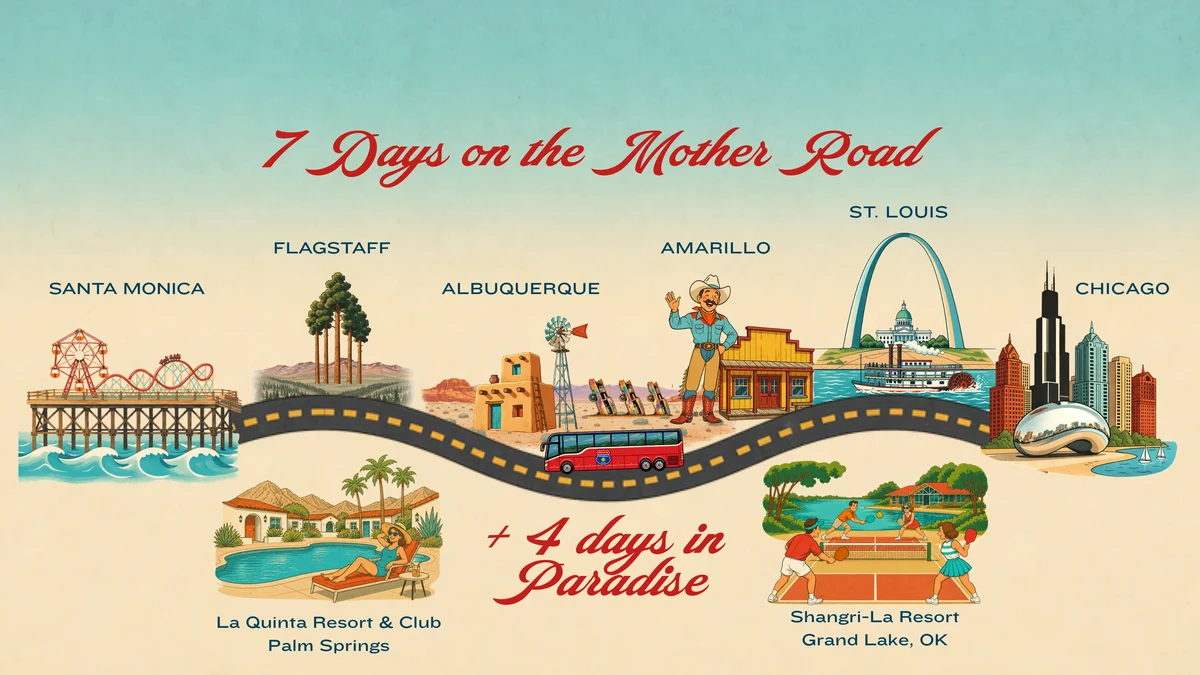
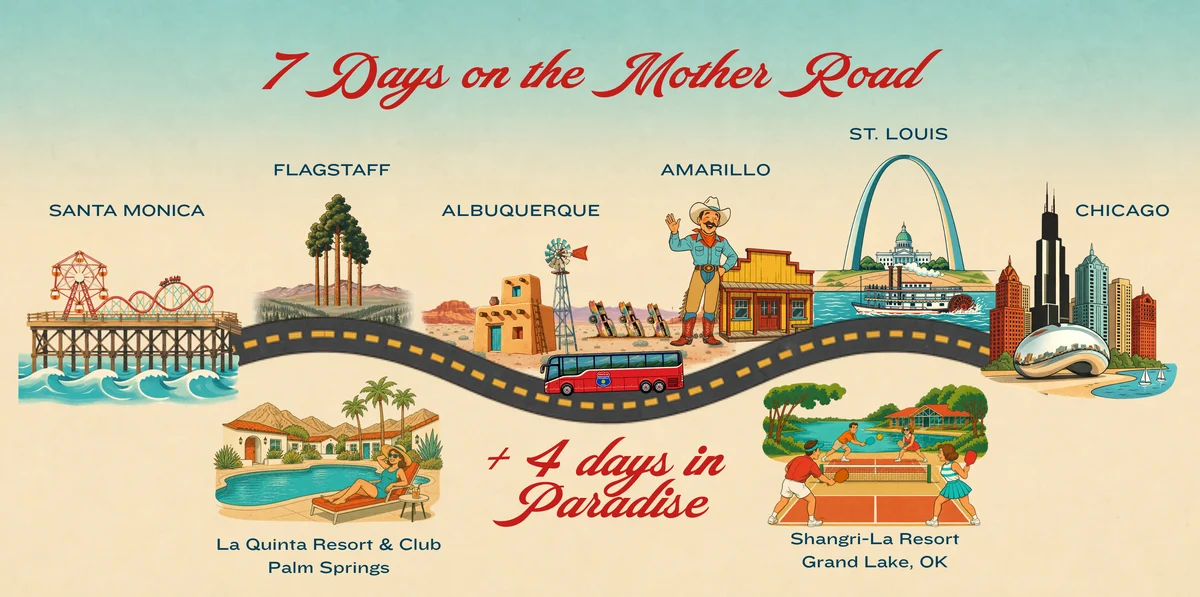
Route section: heading 'America's most legendary highway', subtitle 'You choose the direction.', less sky above the infographic title (Mike, 18 Nov)
Claude-Session: https://claude.ai/code/session_01KAp1Uvs5AjQj4DgUWdfmXs

diff --git a/index.html b/index.html
@@ -98,6 +98,7 @@
 
   /* route */
   .route-head{align-items:end;margin-bottom:24px}
+  .route-sub{font-family:'Barlow Condensed',sans-serif;font-weight:600;text-transform:uppercase;letter-spacing:.14em;font-size:clamp(1.1rem,1.6vw,1.6rem);margin:-.2em 0 0}
   .route-map{margin:8px 0 0}.route-map img{display:block;width:100%;height:auto;border-radius:24px}
   .dir-toggle{display:flex;justify-content:center;gap:4px;margin:24px auto 48px}
   .dir-toggle button{font:inherit;border:2px solid var(--tan);background:#FFEBC9;color:var(--ink);border-radius:16px;padding:14px 48px;cursor:pointer;
@@ -298,11 +299,12 @@ j=d.createElement(s),dl=l!='dataLayer'?'&l='+l:'';j.async=true;j.src=
 <section class="route" id="route">
   <div class="wrap">
     <div class="route-head">
-      <span class="script">The route</span><h2>The legendary Mother Road &mdash; you choose the direction.</h2>
+      <span class="script">The route</span><h2>America&rsquo;s most legendary highway</h2>
+      <p class="route-sub">You choose the direction.</p>
     </div>
     <figure class="route-map">
       <img src="/assets/kimp/route-infographic.webp" srcset="/assets/kimp/route-infographic-1200.webp 1200w, /assets/kimp/route-infographic.webp 2400w" sizes="(max-width: 1400px) 100vw, 1400px"
-           width="2400" height="1350" loading="lazy"
+           width="2400" height="1194" loading="lazy"
            alt="Map of the tour: 7 days on the Mother Road through Santa Monica, Flagstaff, Albuquerque, Amarillo, St. Louis and Chicago, plus 4 days in paradise at La Quinta Resort &amp; Club in Palm Springs and Shangri-La Resort on Grand Lake, Oklahoma">
     </figure>
   </div>
